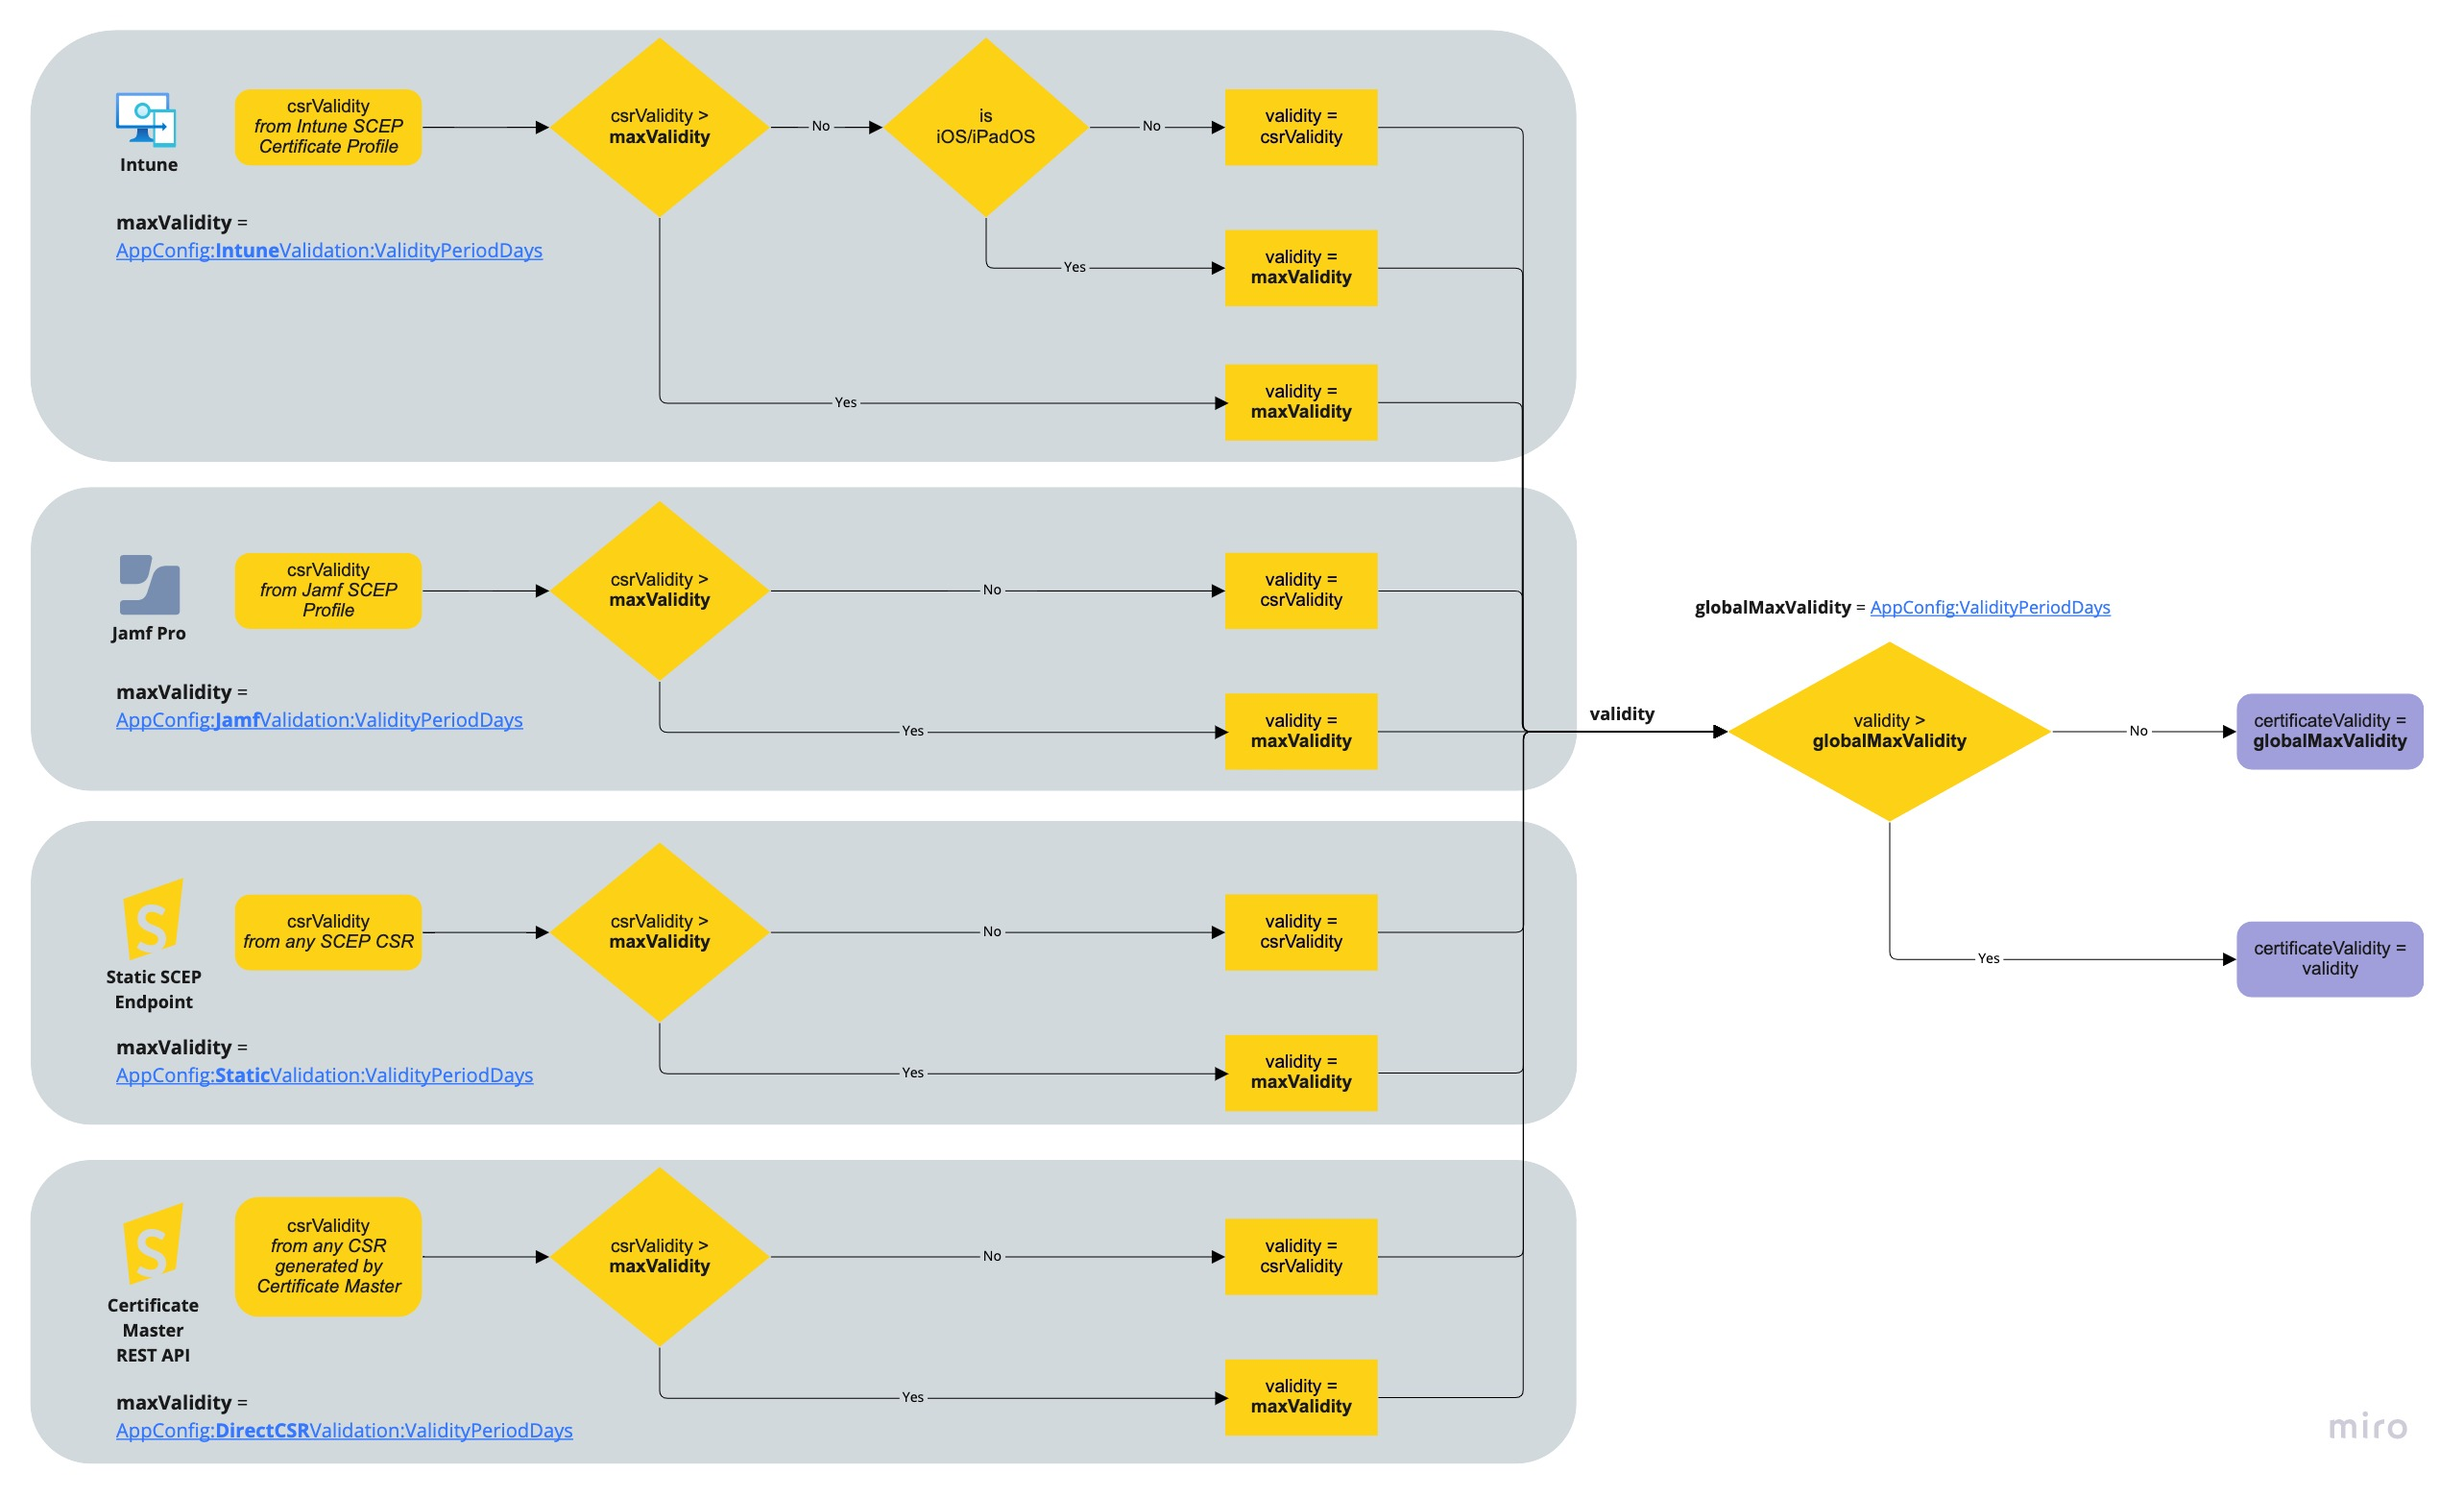
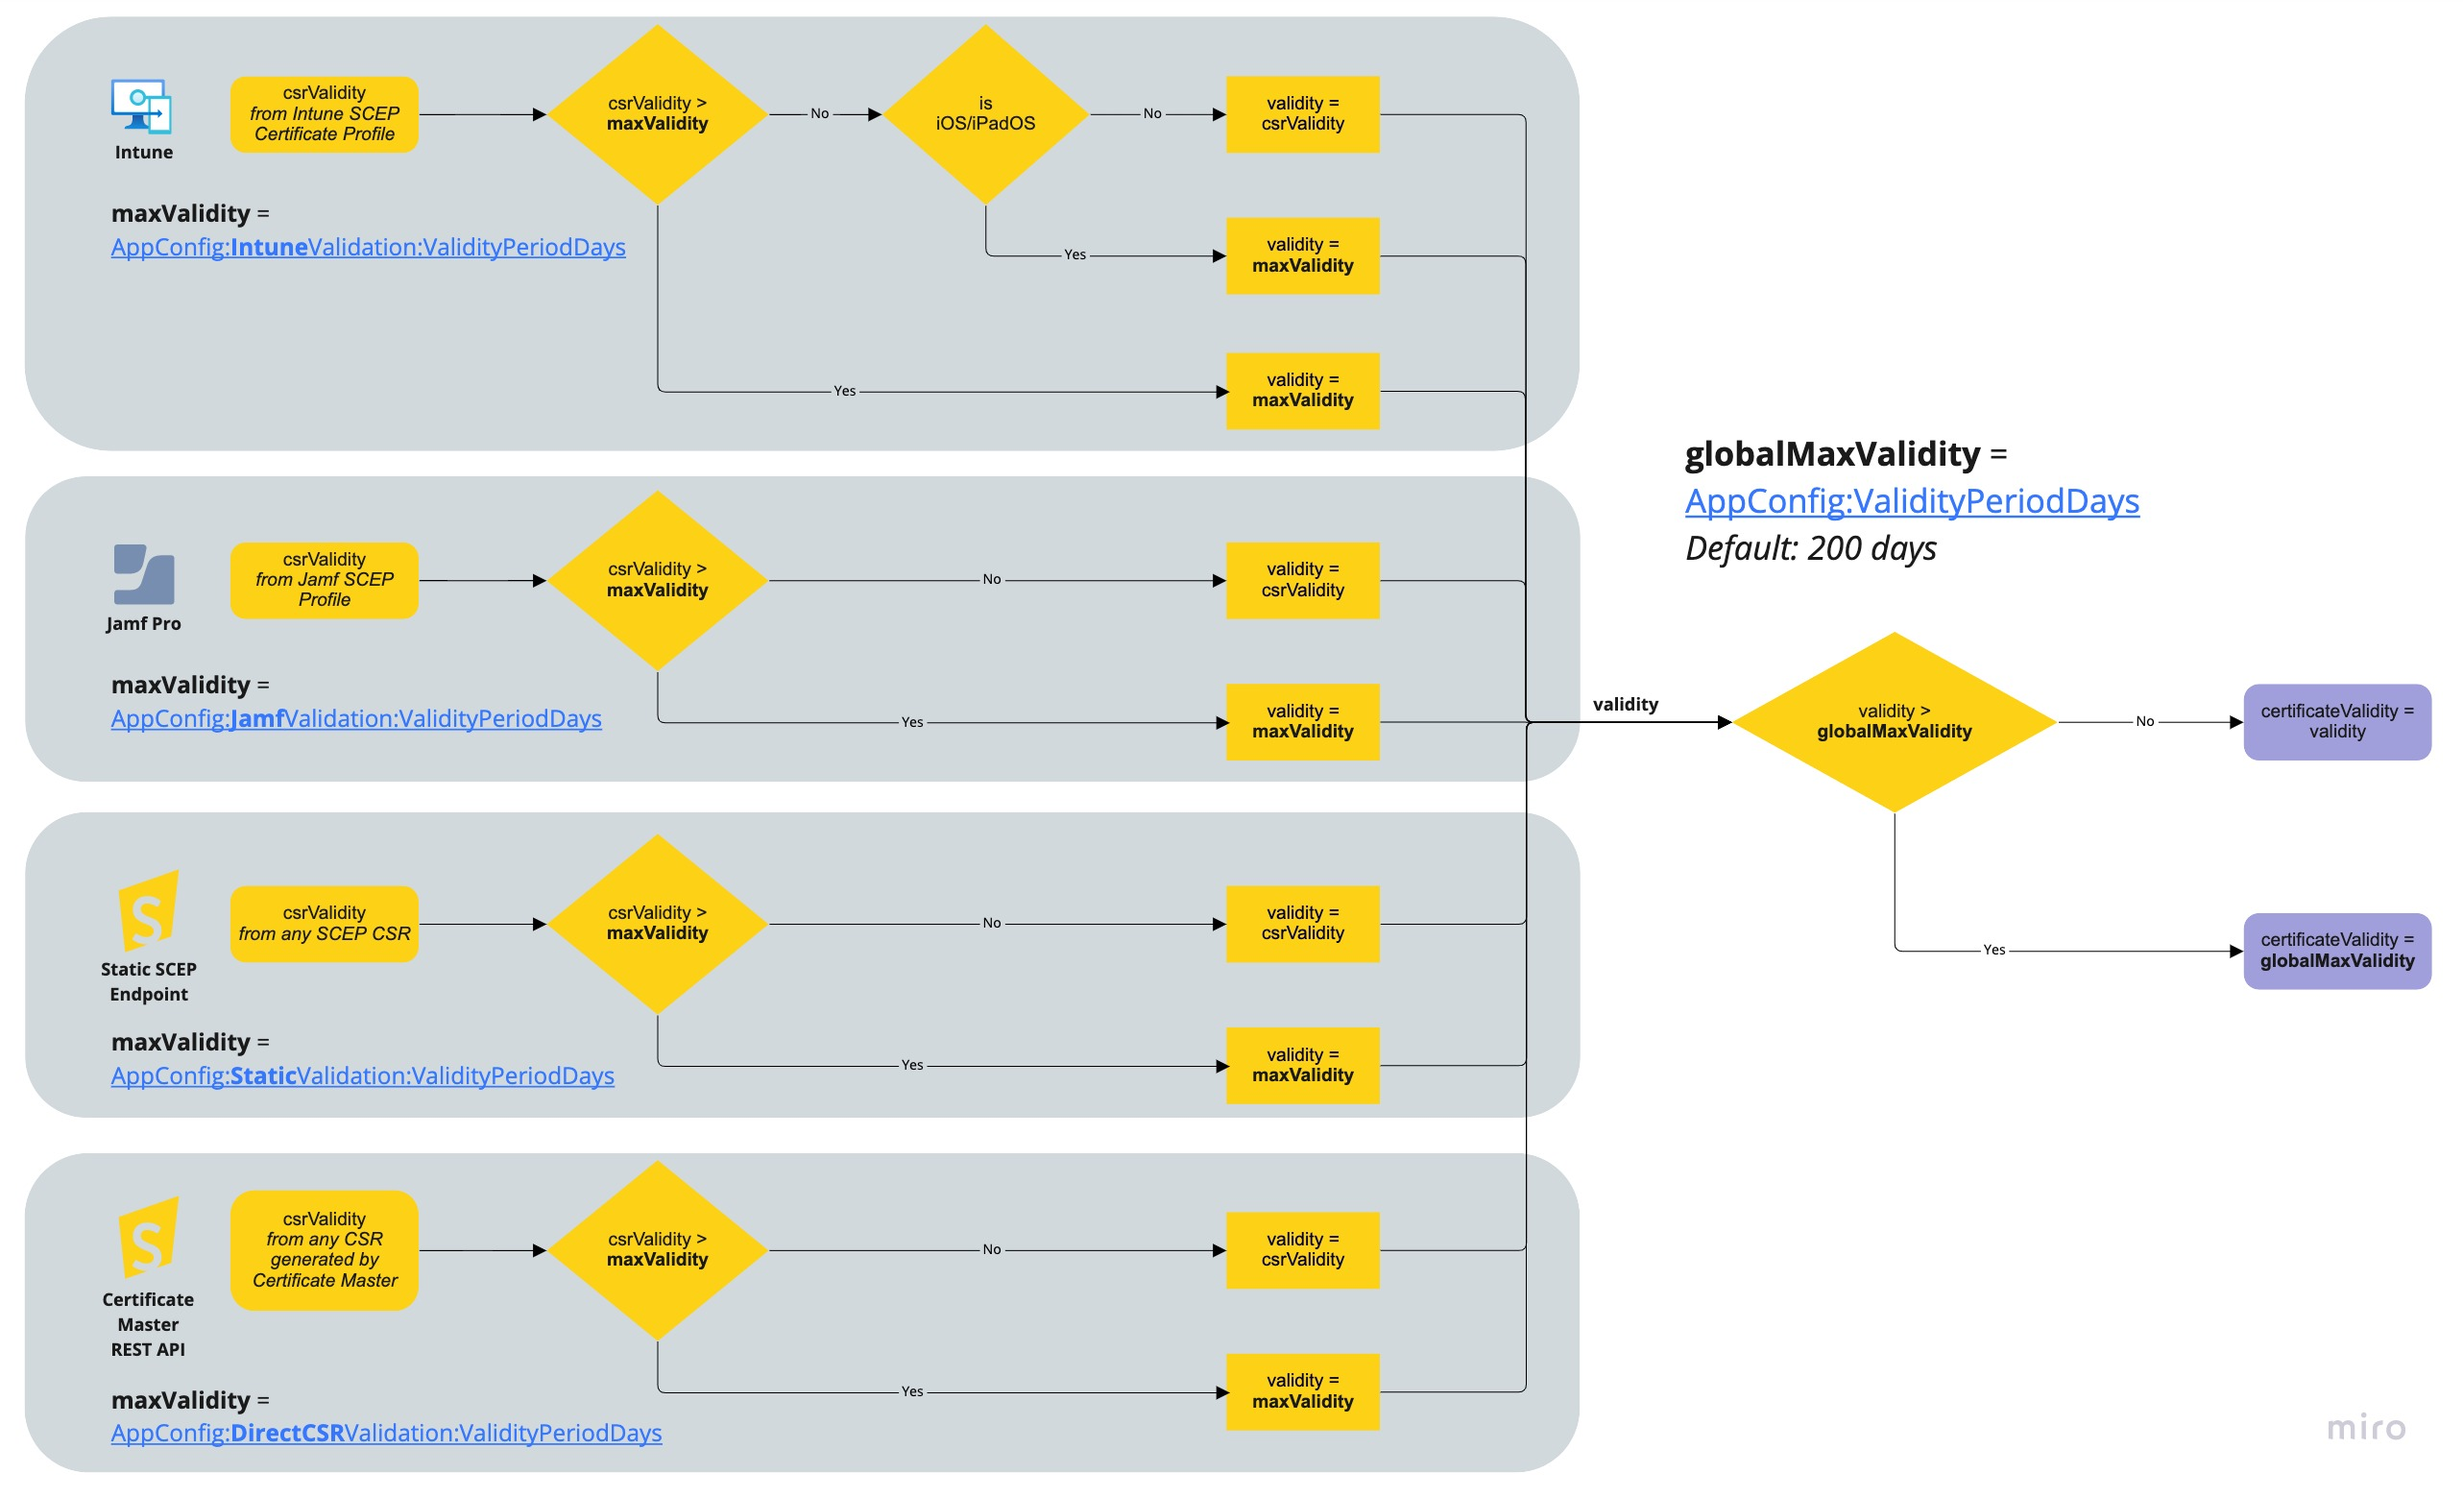
GitBook: [#306] No subject

diff --git a/docs/scepman-configuration/optional/application-settings/certificates.md b/docs/scepman-configuration/optional/application-settings/certificates.md
@@ -31,7 +31,9 @@ You can also configure shorter validity periods for each SCEP endpoint. These ca
 
 Below image depicts how SCEPman limits the certificate validity period; first on a per-endpoint level and globally afterwards.
 
-![](<../../../.gitbook/assets/SCEPman Certificate Validity (3).jpg>)
+![](<../../../.gitbook/assets/SCEPman Certificate Validity (2).jpg>)
+
+
 
 ## AppConfig:ConcurrentSCEPRequestLimit
 
